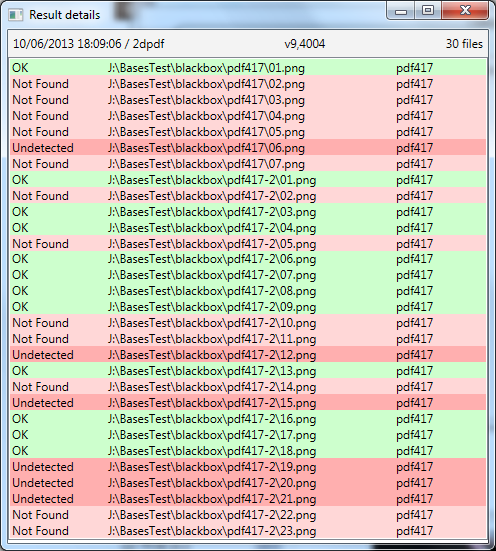
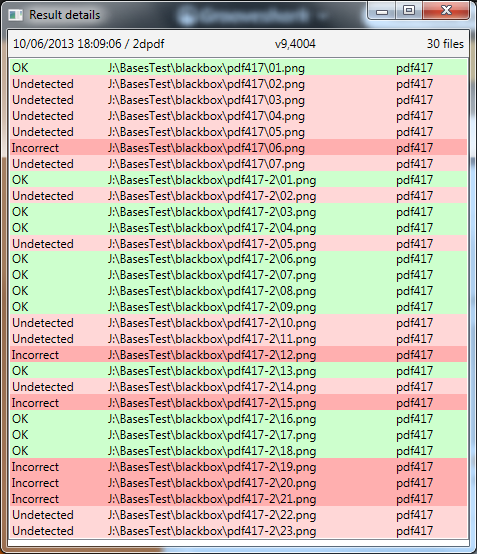
Ajoute des infos sur les résultats de détection

diff --git a/projet1.tex b/projet1.tex
@@ -36,10 +36,11 @@ Il existe quatre famille de codes-barres :
 GdPicture possède une fonction de détection pour chacune de ces quatre familles. Dans le fichier de configuration, je peux définir quelle fonction utiliser pour un répertoire donné, ainsi toutes les images de ce répertoire seront analysées par cette seule fonction. Je peux sinon choisir d'utiliser les quatre fonctions. L'intérêt d'une telle démarche est que pour certaines images, je suis sûr qu'elles seront détectées par une fonction en particulier. Les résultats d'une détection PDF417 sur des QRcodes ne seraient pas significatifs, aussi ai-je intérêt à spécifier l'utilisation de la fonction de détection des QRcodes. Je pourrai donc observer l'évolution de la détection QRcode pour chaque image.\\
 A l'inverse, il peut être utile de ne spécifier l'utilisation d'aucune fonction en particulier. Dans le cas d'image contenant des codes-barres de types différents, cela est primordial. Dans tous les cas, ces instructions doivent être écrites dans le fichier de configuration, et tout répertoire non référencé sera ignoré. Il est donc nécessaire de passer du temps à bien organiser le jeu de test et de configurer l'application en conséquence\footnote{Pour plus de détails, consulter l'annexe \ref{configFile}}.
 
-\paragraph{}
+\paragraph*{}
 
 La méthode de détection de GdPicture retourne une valeur qui indique si une erreur est survenue. Je n'ai pas eu à traiter de cas d'erreurs avec ces images dans la mesure ou il s'agit d'un jeu de test simple et éprouvé à plusieurs reprises.
 
+\label{ProblemeDetectionGdPicture}
 GdPicture m'a tout de même donné du fil à retordre lorsque je me suis aperçu que lors d'une détection multi-threadée sur des QRcodes, les résultats variaient d'une passe à l'autre. La raison était que la fonction de détection retournait de manière imprévisible une erreur générique\footnote{Une erreur générique est le type d'erreur retourné lorsque l'on n'a pas pu identifier l'origine de l'erreur.}. La raison de cette erreur se situait à la fois dans GdPicture et dans mon application.\\
 En effet, lors de l'exécution d'un programme sur plusieurs threads, la consommation de mémoire vive est proportionnelle au nombre de threads utilisés. Dans mon cas, chaque thread charge une image en mémoire, la traite, et effectue plusieurs autres opérations. Lorsque l'application se lance sur 4 threads, on ne constate aucun problème, mais lorsque le nombre de threads est augmenté à 16, 32 ou 64, la consommation de mémoire augmente rapidement. Ainsi on arrive à saturation et le système d'exploitation n'est plus en mesure d'accorder plus de mémoire à l'application. Pour éviter cette situation, le programme qui demande des accès en mémoire doit vérifier qu'assez d'espace est disponible pour lui or, une erreur dans GdPicture faisait que ce n'était pas le cas. Ainsi, la fonction de détection, essayant d'allouer de l'espace mémoire, se retrouve confrontée au problème de saturation et retourne une erreur générique, d'où les différences dans les résultats de détection, modulés au gré de la saturation mémoire.
 
@@ -64,9 +65,62 @@ En appliquant cette opération à toutes les images, on obtient donc un fichier 
 
 \subsection{Présentation des résultats}
 
-A tout moment, il sera possible de comparer les rapports existants. Pour plus de commodité tous les rapports doivent être placés dans le même répertoire. Avec le chemin de ce répertoire, l'application doit être capable de retrouver les informations de chaque rapport et de les classer. Il est ensuite possible de choisir un rapport comme référence et d'afficher les différences de détection dans chaque rapport relativement à celui-ci. On étudie ici le taux de détection, c'est à dire le nombre de codes-barres corrects par rapport au nombre total.
+A tout moment, il est possible de comparer les rapports existants. Pour plus de commodité tous les rapports doivent être placés dans le même répertoire. Avec le chemin de ce répertoire, l'application doit être capable de retrouver les informations de chaque rapport et de les classer. Il est ensuite possible de choisir un rapport comme référence et d'afficher les différences de détection dans chaque rapport relativement à celui-ci. On étudie ici le taux de détection, c'est à dire le nombre de codes-barres corrects par rapport au nombre total.
 
+\paragraph*{}
 
+Les résultats sont donc présentés sur quatre niveaux. Le premier niveau représente les rapports qui ont été détectés dans le répertoire spécifié. Ils sont classés par date et le plus récent est automatiquement défini comme référence. Il est possible de définir un rapport particulier comme référence. On affiche quelques informations propres à chaque rapport comme la date, l'heure, la version de GdPicture et le nombre de fichiers.
+
+\begin{figure}
+\begin{center}
+\includegraphics[scale=0.5]{images/projet1RapportWindow.png}
+\caption{La liste des rapports détectés}
+\end{center}
+\end{figure}
+
+\paragraph*{}
+
+Le second niveau de résultats présente les différences de taux de détection entre la référence et les autres rapports. Ces différences sont détaillées pour chaque type de détection. C'est à ce stade que l'on se rend compte le mieux des problèmes de détection qui peuvent survenir comme ceux expliqués ci-dessus.
+
+\begin{figure}
+\begin{center}
+\includegraphics[scale=0.6]{images/projet1RapportWindow2.png}
+\caption{Comparaison des taux de détection entre les rapports}
+\end{center}
+\end{figure}
+
+\paragraph*{}
+
+Le troisième niveau présente l'état de détection de chaque fichier d'un rapport pour le type de détection donné. Le niveau précédent propose des zones cliquables, on peut donc choisir d'afficher les détails pour un rapport (en colonne) et un type de détection (en ligne). Cela permet de rechercher quel fichier a pu causer les différences de détection constatées au niveau 2.
+
+Trois cas sont possibles :
+\begin{description}
+\item[OK :] Le code-barres a été détecté et est correct
+\item[Undetected :] Aucun code-barres n'a été détecté
+\item[Incorrect :] Un code-barres a été détecté mais il ne correspond pas à la valeur de contrôle.
+\end{description}
+
+\begin{figure}
+\begin{center}
+\includegraphics[scale=0.6]{images/projet1RapportWindow3.png}
+\caption{Etat de détection détaillé par fichier}
+\end{center}
+\end{figure}
+
+Il est possible de double-cliquer sur une ligne pour accéder à l'historique du fichier : c'est le quatrième niveau.
+
+\paragraph*{}
+
+Le quatrième niveau présente un historique de détection du fichier image sur les différents rapports. Il détaille le nombre de codes-barres détectés pour chaque type de détection, le nombre de codes-barres corrects et l'état de détection retourné par GdPicture. Lorsqu'il n'est pas à \og OK \fg{}, cela est sûrement la cause de variations du taux de détection.
+
+\begin{figure}
+\begin{center}
+\includegraphics[scale=0.6]{images/projet1RapportWindow4.png}
+\caption{Etat de détection détaillé pour un fichier}
+\end{center}
+\end{figure}
+
+\pagebreak
 \section{Bilan}
 
 L'enjeu de cette application était de donner à ORPALIS un moyen de surveiller simplement les différences de détection entre les différentes versions du moteur. Une fois le jeu de test organisé et l'application configurée, il est très rapide de lancer une détection sur la base de test, d'enregistrer le rapport avec ceux existants et de comparer les résultats. La classification par type de détection, puis par fichier permet de donner un maximum d'informations tout en garantissant des résultats organisés et une analyse pertinente.

diff --git a/annexeProjet1.tex b/annexeProjet1.tex
@@ -17,7 +17,7 @@ Il est conseillé de limiter le nombre d'instructions en regroupant le plus poss
 
 Si ces conseils sont suivis, vous ne devriez pas rencontrer d'erreur lors du test de vos images.
 
-\chapter{Comment un fichier est-il traité par l'application ?}
+\chapter{Comment une image est-elle traitée par l'application ?}
 
 Afin de pouvoir analyser les informations contenues dans l'intégralité du jeu de test, il est nécessaire au préalable d'organiser ces informations. Plusieurs structures sont présentes pour assurer un agencement clair, et une traduction simple des données. Afin de décrire comment chacune entre en jeu, nous allons détailler un exemple de test.
 
@@ -177,7 +177,3 @@ Un objet \verb|ExtraReportInfo| contient plusieurs informations propres au rappo
 \item La liste des types de codes-barres connus
 \item La liste des catégories (lié au fichier de configuration)
 \end{itemize}
-
-\section{Analyse des rapports}
-
-
